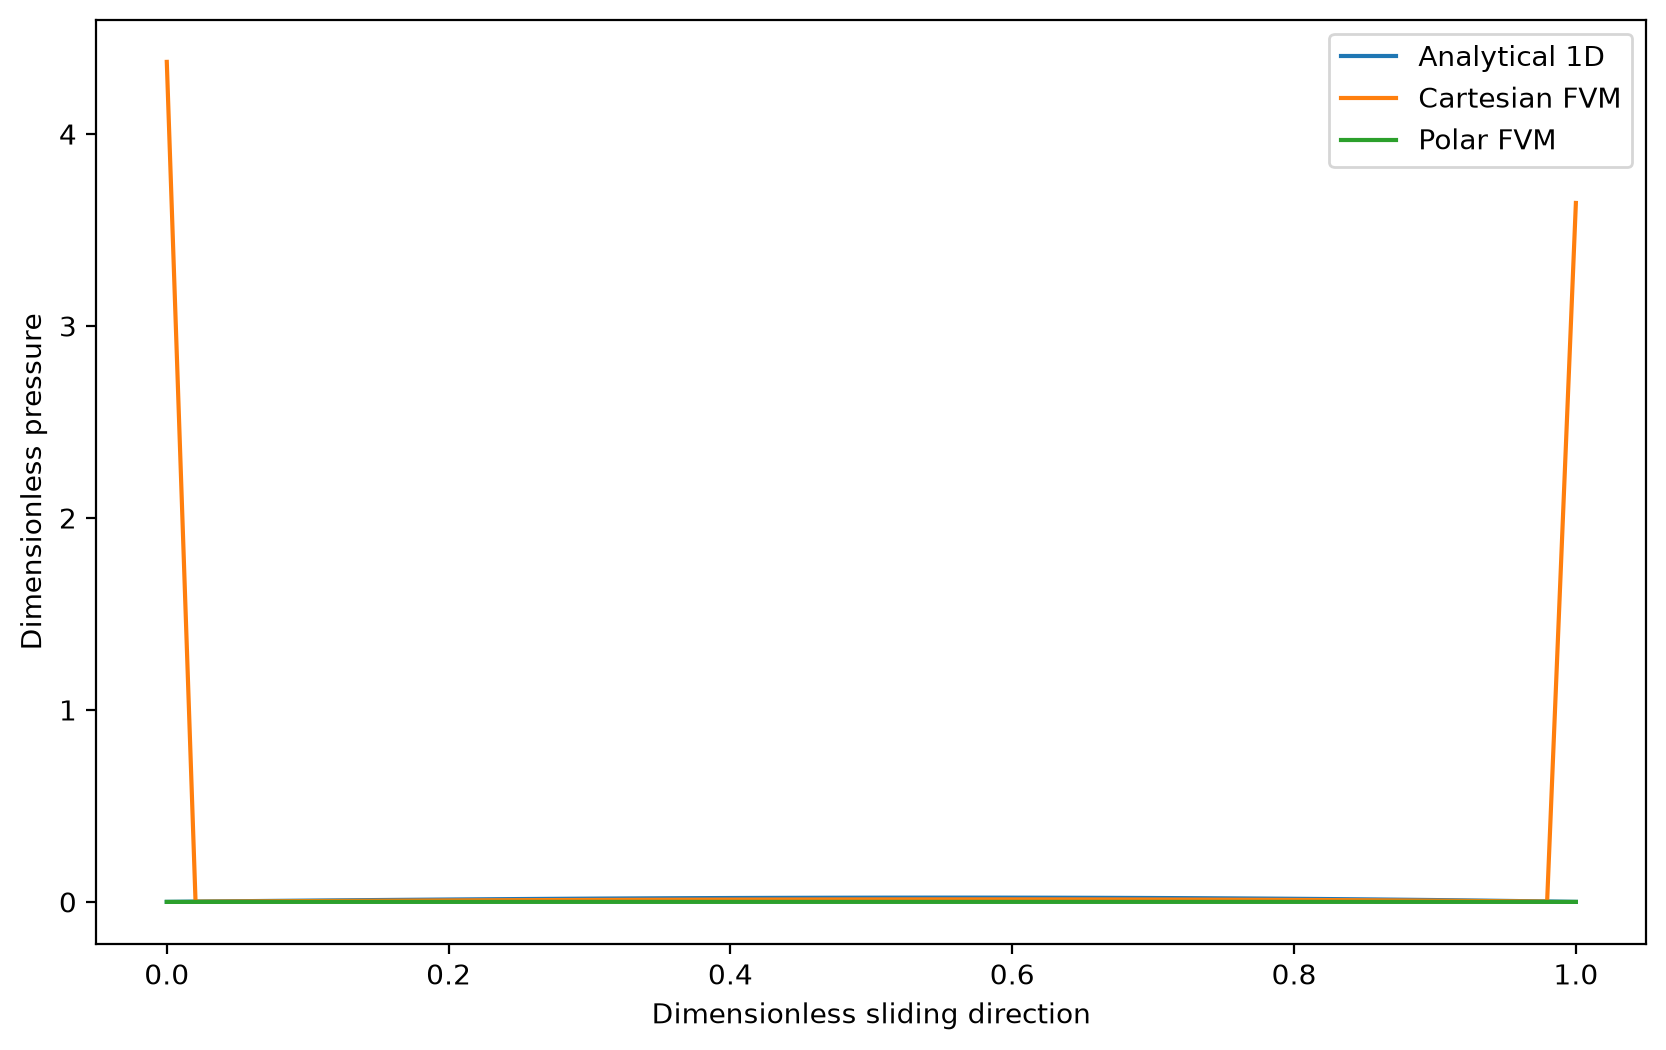
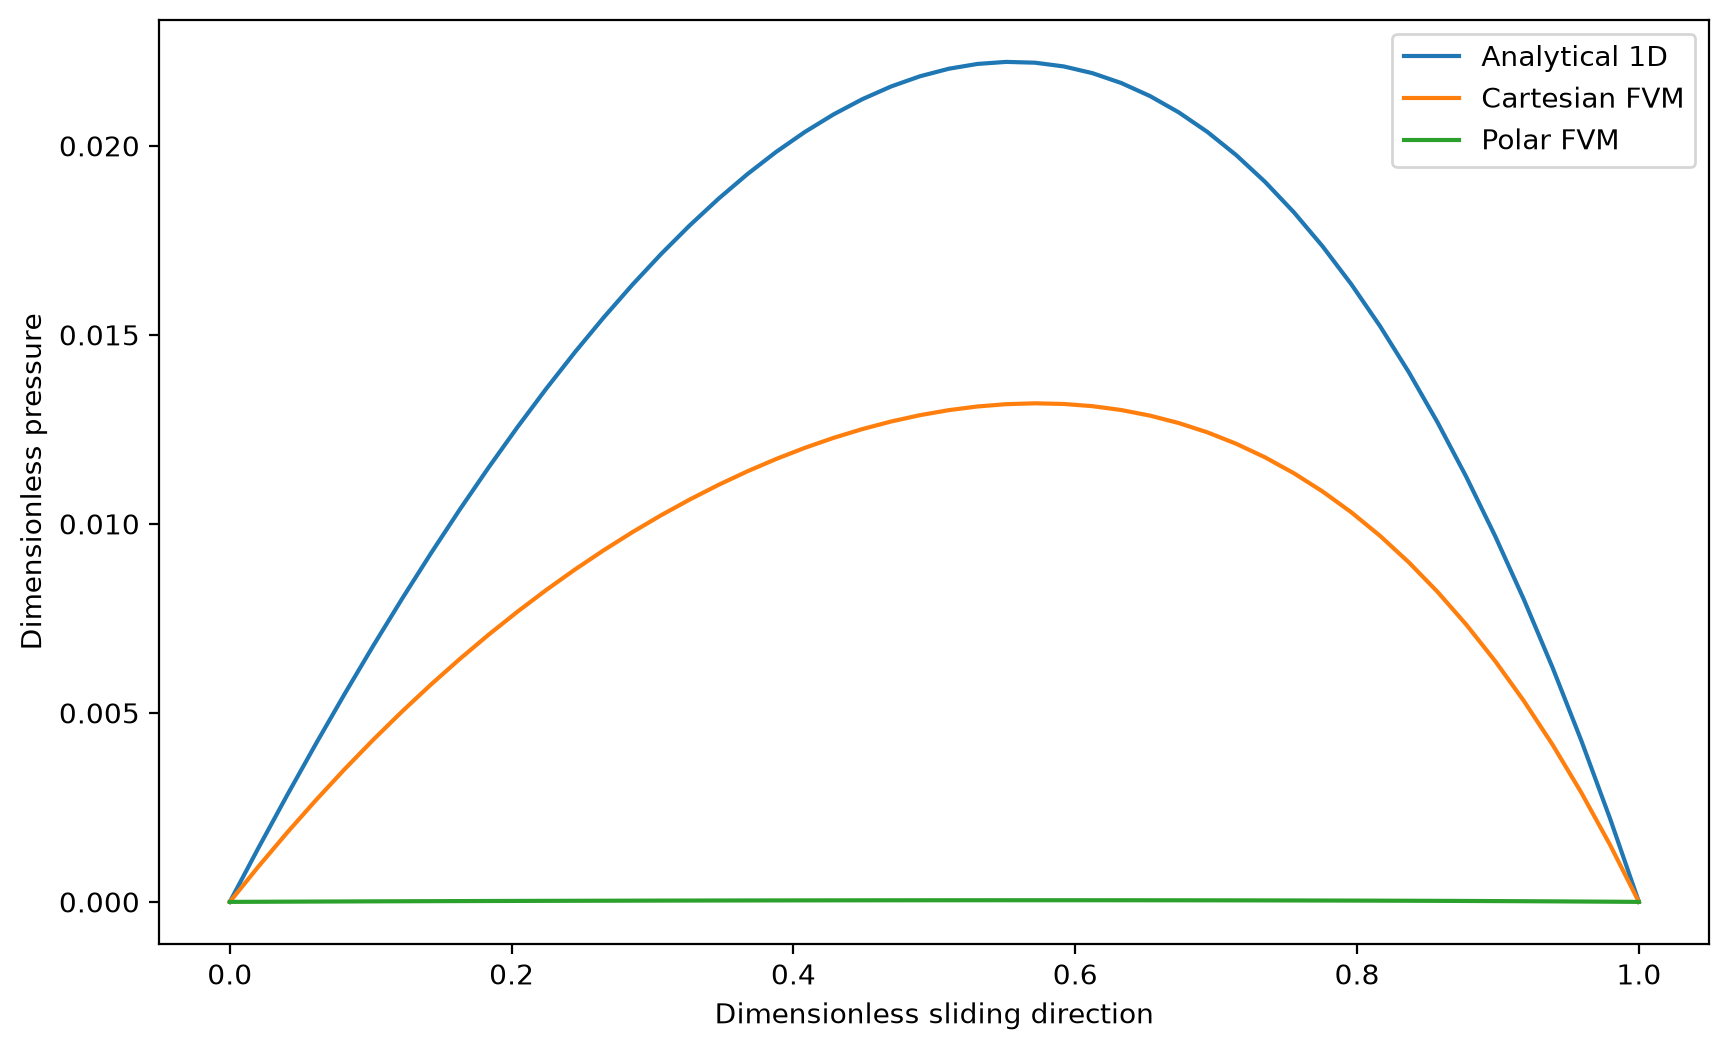
Add corrected dirichlet condition

diff --git a/src/reynolds/polar.py b/src/reynolds/polar.py
@@ -65,10 +65,10 @@ def solve(
     is_boundary = is_boundary.flatten()
 
     # Building and formatting the diagonals for spdiags
-    east_diagonal = -np.append([0], a_east[:-1]) * (~is_boundary)
-    west_diagonal = -np.append(a_west [1:], [0]) * (~is_boundary)
-    north_diagonal = -np.append(np.zeros((r_nodes, )), a_north[:-r_nodes]) * (~is_boundary)
-    south_diagonal = -np.append(a_south[r_nodes:], np.zeros((r_nodes, ))) * (~is_boundary)
+    east_diagonal = -np.append([0], (a_east * ~is_boundary)[:-1])
+    west_diagonal = -np.append((a_west * ~is_boundary)[1:], [0])
+    north_diagonal = -np.append(np.zeros((r_nodes, )), (a_north * ~is_boundary)[:-r_nodes])
+    south_diagonal = -np.append((a_south * ~is_boundary)[r_nodes:], np.zeros((r_nodes, )))
 
     # The equation will be pressure * a_P = 0 on the boundary, forcing pressure = 0
     a_P[is_boundary] = 1.0

diff --git a/src/reynolds/cartesian.py b/src/reynolds/cartesian.py
@@ -57,10 +57,10 @@ def solve(
     is_boundary = is_boundary.flatten()
 
     # Building and formatting the diagonals for spdiags
-    east_diagonal = -np.append([0], a_east[:-1]) * (~is_boundary)
-    west_diagonal = -np.append(a_west[1:], [0]) * (~is_boundary)
-    north_diagonal = -np.append(np.zeros((x_nodes, )), a_north[:-x_nodes]) * (~is_boundary)
-    south_diagonal = -np.append(a_south[x_nodes:], np.zeros((x_nodes, ))) * (~is_boundary)
+    east_diagonal = -np.append([0], (a_east * ~is_boundary)[:-1])
+    west_diagonal = -np.append((a_west * ~is_boundary)[1:], [0])
+    north_diagonal = -np.append(np.zeros((x_nodes, )), (a_north * ~is_boundary)[:-x_nodes])
+    south_diagonal = -np.append((a_south * ~is_boundary)[x_nodes:], np.zeros((x_nodes, )))
 
     # The equation will be pressure * a_P = 0 on the boundary, forcing pressure = 0
     a_P[is_boundary] = 1.0
